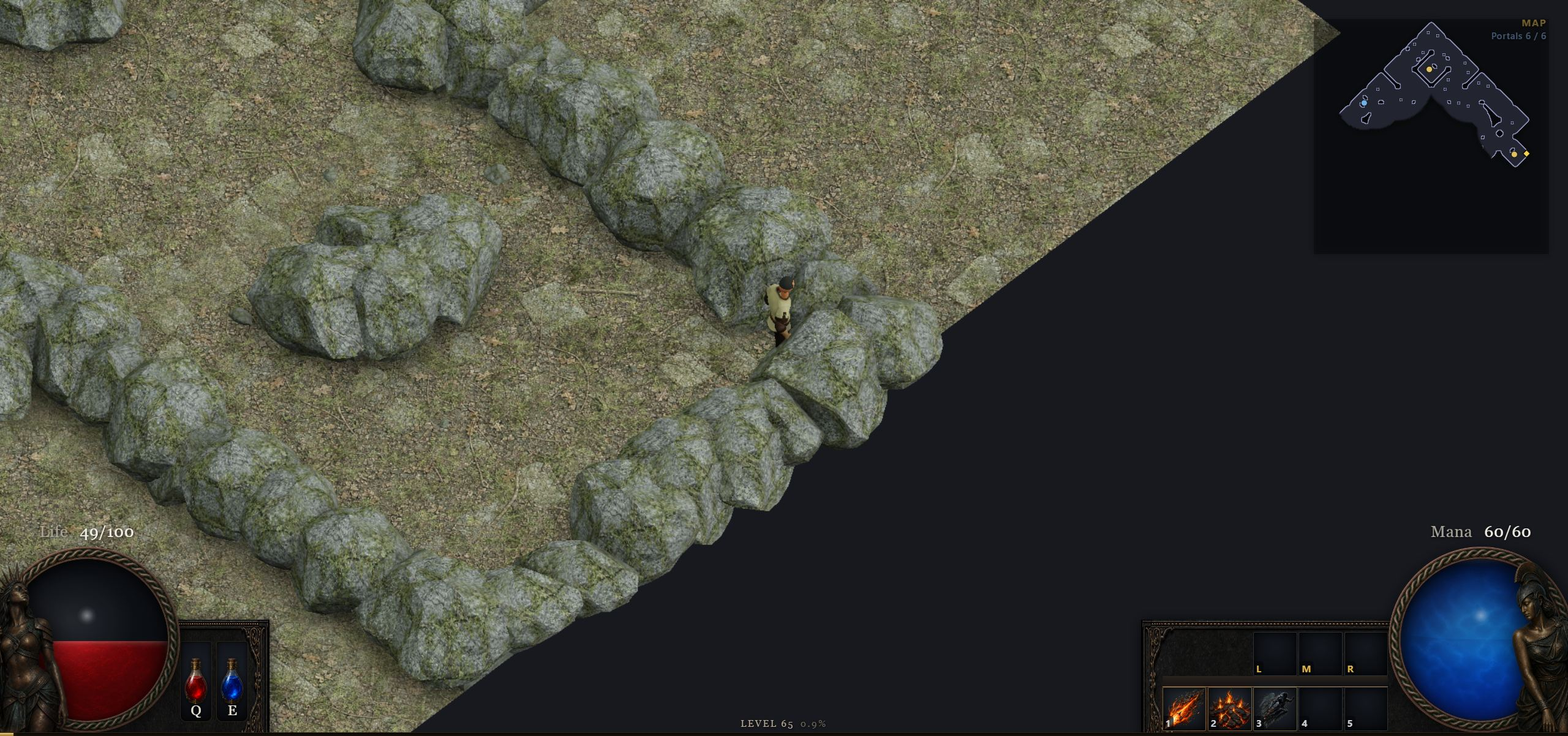
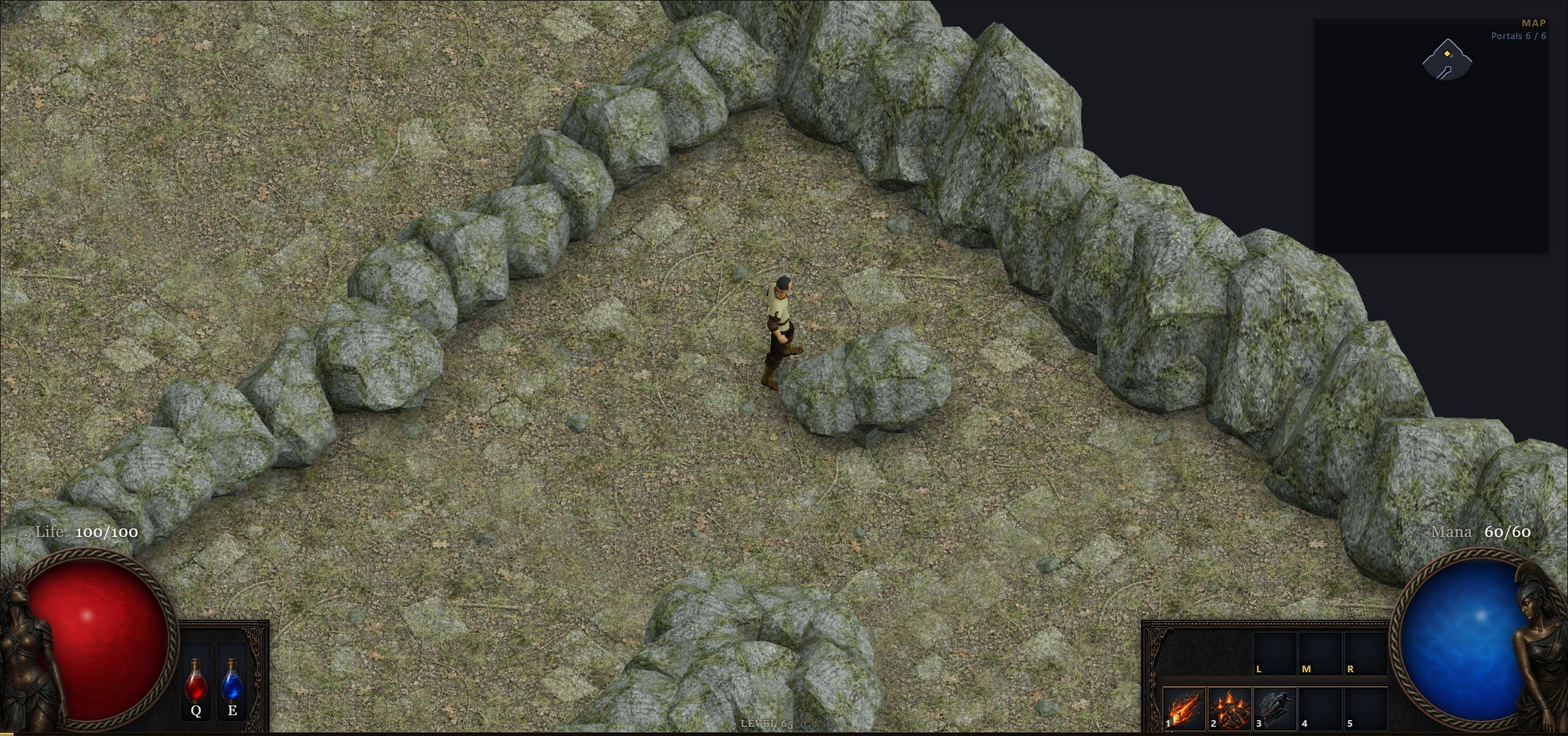
docs(devlog): the walls stop being cubes, and the map stops having an edge

diff --git a/devlog/README.md b/devlog/README.md
@@ -238,3 +238,13 @@ The furniture gets authored instead of assembled out of primitives.
 <td width="33%"><img src="screenshots/2026-07-28-hideout-props.jpeg" alt="The hideout with a banded timber stash chest at the left, a brass map device on its stepped plinth at the centre, and the disenchanter over his brazier at the right" width="100%"><br><sub><b>The map device stops being a cylinder</b> - the stash and the map device were Babylon boxes and discs with flat colours on them, which is fine as a placeholder and reads as a placeholder from across the room. They are one authored <code>props.glb</code> now, built offline from generated texture masters, with the old primitives kept as the fallback so a headless test still has furniture. Four things bit, and every one of them is invisible until it isn't. glTF base colour is <b>linear</b>: the 0.17 grey the primitive was carrying renders at about 0.45 through a PBR material, so a faithful port has to square it - 0.023 in the file is the 0.17 that was on screen. Metallic materials render <em>black</em> in this scene, because it is lit by a hemispheric and a directional with no environment texture and there is nothing for metal to reflect; the brass ships at metallic 0 with the metal painted into the albedo instead. Blender's default view transform is a film curve, so <code>save_render</code> was quietly pulling every texture a stop darker than authored - <code>view_transform = "Standard"</code> is the whole fix. And a prop passes through two axis conversions on the way in, Blender's Z-up to glTF's Y-up to Babylon's left-handed, which landed a chest built facing -Y with its back to the camera. Both props live in one glb with two named roots and are pulled apart by an instantiate predicate rather than two fetches, so the prop that is not being placed never has its materials cloned; the textures are 512 JPEG inside the file because the four 1024 PNG masters embed at about 10MB. One constraint worth writing down before someone tidies it: the plate's planar UV span is the plinth's width, so shrinking the plate under radius ~0.55 walks its top face into the texture's dark centre and the ornament disappears.</sub></td>
 </tr>
 </table>
+
+## 2026-07-28 - the walls stop being cubes, and the map stops having an edge
+
+Boulder walls, a rampart around the rim, and one bug that made every instrument lie.
+
+<table>
+<tr>
+<td width="33%"><img src="screenshots/2026-07-28-rock-walls.jpeg" alt="A forest map bounded by a tall ridge of mossy granite boulders running diagonally across the frame, the character standing on open dirt floor at the centre" width="100%"><br><sub><b>The boundary was drawing the wrong matrices for a week</b> - floor debris and the wall boulders are the same six meshes at two sizes, which is why they are one scatter driven by a config rather than two code paths. But <code>Mesh.clone()</code> shares its source's <code>Geometry</code>, and <code>thinInstanceSetBuffer</code> writes the instanced attributes onto the <em>geometry</em> while keeping the matrices it reports back on the <em>mesh</em>. Debris is built second, so its 76 pebble matrices replaced what all six boulder meshes drew and the map's whole boundary rendered as gravel lying on open floor. Every probe said it was fine, because every probe was per-mesh: 109 thin instances a variant, material bound, visible and enabled, bounding boxes spanning the map to a height of 1.98, and a matrix buffer that read back 1.79 wide. The only thing that was wrong was what the GPU had. Tinting the rock material red and looking at the frame found in one shot what four rounds of numbers could not. <code>makeGeometryUnique()</code> before the buffer is set; the regression test reads the scale back out of the boulder's own vertex buffer, since the mesh-side copy stayed correct all through the bug. Two numbers had been tuned against that broken frame and were therefore wrong: rock albedo had gone to 0.95 while the only stone on screen was pebble-sized, which with real boulders made the walls brighter than the ground and inverted the rule the tint pass exists to hold, and the tallest rock was sized to the 1.85 box wall it replaced, which is the character's own height, so he vanished behind the boundary he walked south of. Separately, the ground plate is sized to exactly the outermost ring of the grid but rocks were only placed on wall that touches floor, so wherever a map's edge is a block of dead cells the plate ended in a lip of bare dirt against the void. The rim is its own kind of stone now: everything else is capped by the player's head because he walks behind it, and nothing is ever behind the rim, so it starts where the tallest boulder stops.</sub></td>
+</tr>
+</table>
